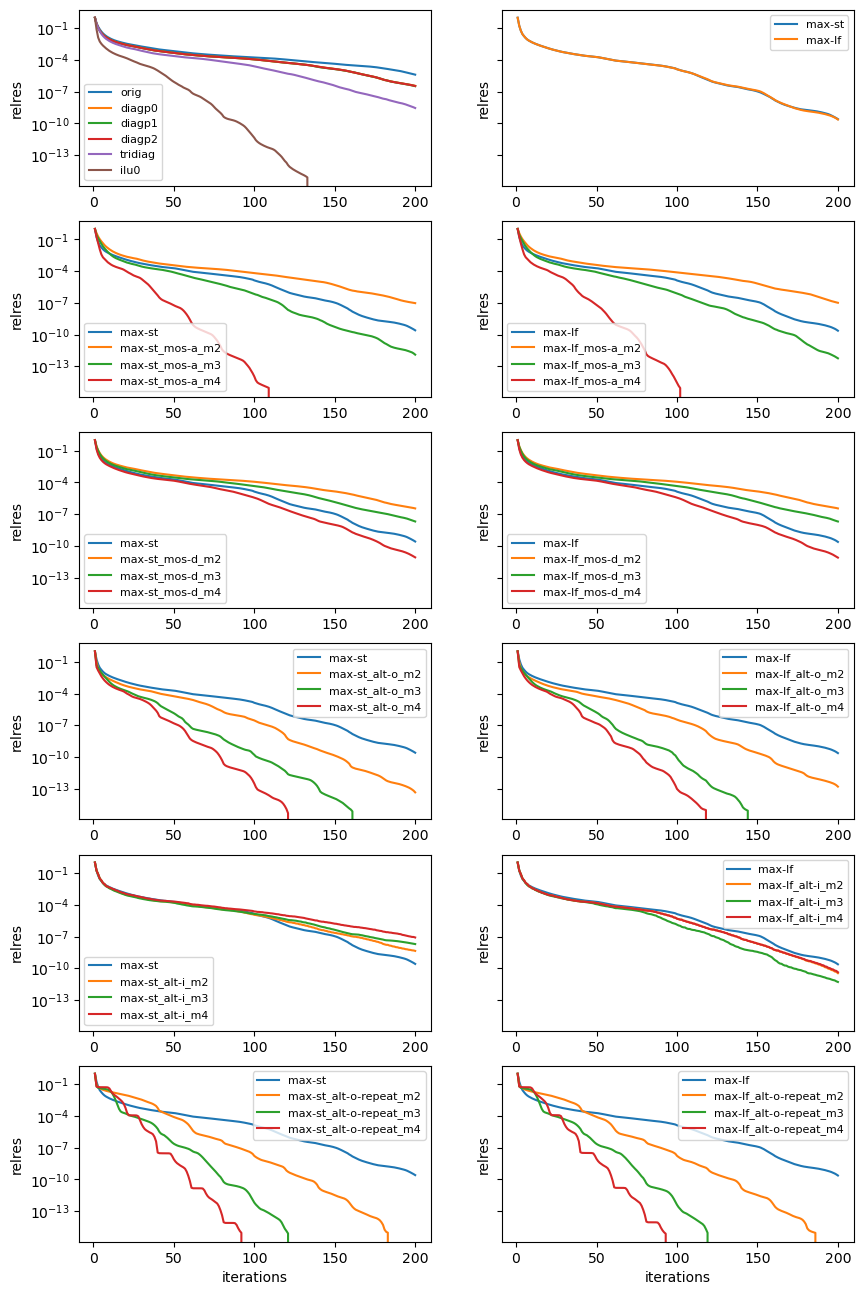
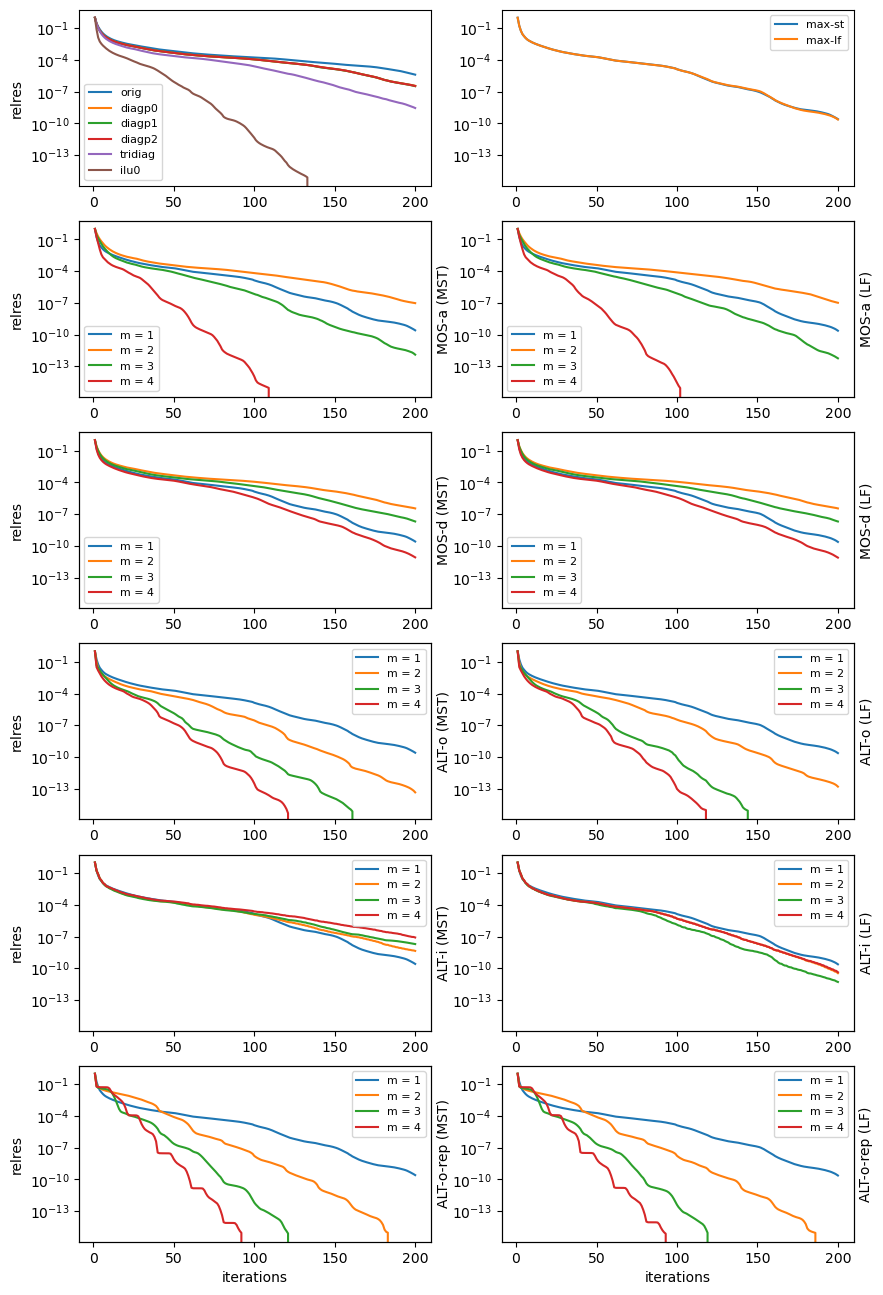
improve labeling

diff --git a/python/plot.py b/python/plot.py
@@ -15,6 +15,7 @@ import re
 
 from pathlib import Path
 
+
 # %%
 def load_trials(json_f):
     trials = {}
@@ -38,6 +39,27 @@ def load_trials(json_f):
     return trials
 
 
+def plot_trial(labels, trials, matrix, x_id, x_lim, ax, y_title=None, alt_legend=False):
+    for m, label in enumerate(labels, start=1):
+        relres  = trials[matrix][x_id][label]['relres']
+        relres += [0] * (x_lim - len(relres))
+        
+        fre  = trials[matrix][x_id][label]['fre']
+        fre += [0] * (x_lim - len(relres))
+
+        # XXX: trick to display method name in legend, when comparing different preconditioner types
+        label_m = label if alt_legend else f'm = {m}'
+        ax.plot(range(1, x_lim+1), relres[:x_lim], label=label_m)
+    
+    ax.legend(fontsize='8')
+
+    if y_title is not None:
+        ax2 = ax.twinx()
+        ax2.set_ylabel(y_title)
+        ax2.set_yticks([])
+    
+     
+# %%
 def main(json_f):
     trials = load_trials(json_f)
     x_lim = 200
@@ -50,263 +72,135 @@ def main(json_f):
 
             for i in range(NROWS):
                 ax1[i, 0].set_yscale('log')
-                #ax1[i, 0].set_xlabel('iterations')
-                ax1[i, 0].set_ylabel('relres')
-            
                 ax1[i, 1].set_yscale('log')
-                #ax1[i, 1].set_xlabel('iterations')
-                ax1[i, 1].set_ylabel('relres')
+                ax1[i, 1].yaxis.set_tick_params(labelleft=True)
+                ax1[i, 0].set_ylabel('relres')
 
             ax1[-1, 0].set_xlabel('iterations')
             ax1[-1, 1].set_xlabel('iterations')
-            
-            # R1) Reference results
-            # XXX: replace jacobi with diagp0, diagp1, diagp2
-            ref_trials = ['orig', 'diagp0', 'diagp1', 'diagp2', 'tridiag', 'ilu0']
-            
-            for m, label in enumerate(ref_trials, start=1):
-                relres = trials[matrix][x_id][label]['relres']
-                relres += [0] * (x_lim - len(relres))
-                fre = trials[matrix][x_id][label]['fre']
-                fre += [0] * (x_lim - len(relres))
-                
-                # TODO: ensure same number of iterations (xscale) for every subplot
-                ax1[0, 0].plot(range(1, x_lim+1), relres[:x_lim], label=label)
-            
-            ax1[0, 0].legend(fontsize='8')
-            # ax1[0, 0].set_xlim(100)
 
+
+            # R1, C1) Reference results
+            labels11 = ['orig', 'diagp0', 'diagp1', 'diagp2', 'tridiag', 'ilu0']
+            
+            plot_trial(labels11, trials, matrix, x_id, x_lim, ax1[0, 0], y_title=None, alt_legend=True)
+
+
+            # TODO: use plot_trial()
             # R1, C2) MST + LF
-            trials12 = ['max-st', 'max-lf']
-
-            for m, label in enumerate(trials12, start=1):
-                relres = trials[matrix][x_id][label]['relres']
-                relres += [0] * (x_lim - len(relres))
-                fre = trials[matrix][x_id][label]['fre']
-                fre += [0] * (x_lim - len(relres))
-                
-                # TODO: ensure same number of iterations (xscale) for every subplot
-                ax1[0, 1].plot(range(1, x_lim+1), relres[:x_lim], label=label)
+            labels12 = ['max-st', 'max-lf']
             
-            ax1[0, 1].legend(fontsize='8')
-            # ax1[0, 1].set_xlim(100)
+            plot_trial(labels12, trials, matrix, x_id, x_lim, ax1[0, 1], y_title=None, alt_legend=True)
+
 
             # R2, C1) MST + MOS-a
-            trials21 = ['max-st',
+            labels21 = ['max-st',
                         'max-st_mos-a_m2',
                         'max-st_mos-a_m3',
                         'max-st_mos-a_m4'
             ]
-            
-            for m, label in enumerate(trials21, start=1):
-                relres = trials[matrix][x_id][label]['relres']
-                relres += [0] * (x_lim - len(relres))
-                fre = trials[matrix][x_id][label]['fre']
-                fre += [0] * (x_lim - len(relres))
-                
-                ax1[1, 0].plot(range(1, x_lim+1), relres[:x_lim], label=label)
-            
-            ax1[1, 0].legend(fontsize='8')
-            # ax1[1, 0].set_xlim(100)
-                
+            plot_trial(labels21, trials, matrix, x_id, x_lim, ax1[1, 0], 'MOS-a (MST)')
+
+
             # R3, C1) MST + MOS-d
-            trials31 = ['max-st',
+            labels31 = ['max-st',
                         'max-st_mos-d_m2',
                         'max-st_mos-d_m3',
                         'max-st_mos-d_m4'
             ]
+            plot_trial(labels31, trials, matrix, x_id, x_lim, ax1[2, 0], 'MOS-d (MST)')
 
-            for m, label in enumerate(trials31, start=1):
-                relres = trials[matrix][x_id][label]['relres']
-                relres += [0] * (x_lim - len(relres))
-                fre = trials[matrix][x_id][label]['fre']
-                fre += [0] * (x_lim - len(relres))
-                
-                ax1[2, 0].plot(range(1, x_lim+1), relres[:x_lim], label=label)
             
-            ax1[2, 0].legend(fontsize='8')
-            # ax1[2, 0].set_xlim(100)
-                
             # R4, C1) MST + ALT-o
-            trials41 = ['max-st',
+            labels41 = ['max-st',
                         'max-st_alt-o_m2',
                         'max-st_alt-o_m3',
                         'max-st_alt-o_m4'
             ]
-            
-            for m, label in enumerate(trials41, start=1):
-                relres = trials[matrix][x_id][label]['relres']
-                relres += [0] * (x_lim - len(relres))
-                fre = trials[matrix][x_id][label]['fre']
-                fre += [0] * (x_lim - len(relres))
-                
-                ax1[3, 0].plot(range(1, x_lim+1), relres[:x_lim], label=label)
-            
-            ax1[3, 0].legend(fontsize='8')
-            # ax1[3, 0].set_xlim(100)
-                
+            plot_trial(labels41, trials, matrix, x_id, x_lim, ax1[3, 0], 'ALT-o (MST)')
+
+
             # R5, C1) MST + ALT-i
-            trials51 = ['max-st',
+            labels51 = ['max-st',
                         'max-st_alt-i_m2',
                         'max-st_alt-i_m3',
                         'max-st_alt-i_m4'
             ]
-            
-            for m, label in enumerate(trials51, start=1):
-                relres = trials[matrix][x_id][label]['relres']
-                relres += [0] * (x_lim - len(relres))
-                fre = trials[matrix][x_id][label]['fre']
-                fre += [0] * (x_lim - len(relres))
-                
-                ax1[4, 0].plot(range(1, x_lim+1), relres[:x_lim], label=label)
-            
-            ax1[4, 0].legend(fontsize='8')
-            # ax1[4, 0].set_xlim(100)
-                
+            plot_trial(labels51, trials, matrix, x_id, x_lim, ax1[4, 0], 'ALT-i (MST)')
+
+
             # R6, C1) MST + ALT-o-repeat
-            trials61 = ['max-st',
+            labels61 = ['max-st',
                         'max-st_alt-o-repeat_m2',
                         'max-st_alt-o-repeat_m3',
                         'max-st_alt-o-repeat_m4'
             ]
+            plot_trial(labels61, trials, matrix, x_id, x_lim, ax1[5, 0], 'ALT-o-rep (MST)')
             
-            for m, label in enumerate(trials61, start=1):
-                relres = trials[matrix][x_id][label]['relres']
-                relres += [0] * (x_lim - len(relres))
-                fre = trials[matrix][x_id][label]['fre']
-                fre += [0] * (x_lim - len(relres))
-                
-                ax1[5, 0].plot(range(1, x_lim+1), relres[:x_lim], label=label)
             
-            ax1[5, 0].legend(fontsize='8')
-            # ax1[5, 0].set_xlim(100)
-                
             # # R7, C1) MST + addition
-            # trials71 = ['max-st',
+            # labels71 = ['max-st',
             #             'max-st_add_m2',
             #             'max-st_add_m3',
             #             'max-st_add_m4'
             # ]
-
-            # for m, label in enumerate(trials71, start=1):
-            #     relres = trials[matrix][x_id][label]['relres']
-            #     relres += [0] * (x_lim - len(relres))
-            #     fre = trials[matrix][x_id][label]['fre']
-            #     fre += [0] * (x_lim - len(relres))
-                
-            #     ax1[6, 0].plot(range(1, x_lim+1), relres[:x_lim], label=label)
-            
-            # ax1[6, 0].legend(fontsize='8')
-            # # ax1[6, 0].set_xlim(100)
-                
+            # plot_trial(labels71, trials, matrix, x_id, x_lim, ax1[6, 0], 'add (MST)')
+ 
+    
             # R2, C2) LF + MOS-a
-            trials22 = ['max-lf',
+            labels22 = ['max-lf',
                         'max-lf_mos-a_m2',
                         'max-lf_mos-a_m3',
                         'max-lf_mos-a_m4'
             ]
-            
-            for m, label in enumerate(trials22, start=1):
-                relres = trials[matrix][x_id][label]['relres']
-                relres += [0] * (x_lim - len(relres))
-                fre = trials[matrix][x_id][label]['fre']
-                fre += [0] * (x_lim - len(relres))
-                
-                ax1[1, 1].plot(range(1, x_lim+1), relres[:x_lim], label=label)
-            
-            ax1[1, 1].legend(fontsize='8')
-            # ax1[1, 1].set_xlim(100)
+            plot_trial(labels22, trials, matrix, x_id, x_lim, ax1[1, 1], 'MOS-a (LF)')
 
+            
             # R3, C2) LF + MOS-d
-            trials32 = ['max-lf',
+            labels32 = ['max-lf',
                         'max-lf_mos-d_m2',
                         'max-lf_mos-d_m3',
                         'max-lf_mos-d_m4'
             ]
+            plot_trial(labels32, trials, matrix, x_id, x_lim, ax1[2, 1], 'MOS-d (LF)')
 
-            for m, label in enumerate(trials32, start=1):
-                relres = trials[matrix][x_id][label]['relres']
-                relres += [0] * (x_lim - len(relres))
-                fre = trials[matrix][x_id][label]['fre']
-                fre += [0] * (x_lim - len(relres))
-                
-                ax1[2, 1].plot(range(1, x_lim+1), relres[:x_lim], label=label)
             
-            ax1[2, 1].legend(fontsize='8')
-            # ax1[2, 1].set_xlim(100)
-                
             # R4, C2) LF + ALT-o
-            trials42 = ['max-lf',
+            labels42 = ['max-lf',
                         'max-lf_alt-o_m2',
                         'max-lf_alt-o_m3',
                         'max-lf_alt-o_m4'
             ]
+            plot_trial(labels42, trials, matrix, x_id, x_lim, ax1[3, 1], 'ALT-o (LF)')
+
             
-            for m, label in enumerate(trials42, start=1):
-                relres = trials[matrix][x_id][label]['relres']
-                relres += [0] * (x_lim - len(relres))
-                fre = trials[matrix][x_id][label]['fre']
-                fre += [0] * (x_lim - len(relres))
-                
-                ax1[3, 1].plot(range(1, x_lim+1), relres[:x_lim], label=label)
-            
-            ax1[3, 1].legend(fontsize='8')
-            # ax1[3, 1].set_xlim(100)
-                
             # R5, C2) LF + ALT-i
-            trials52 = ['max-lf',
+            labels52 = ['max-lf',
                         'max-lf_alt-i_m2',
                         'max-lf_alt-i_m3',
                         'max-lf_alt-i_m4'
             ]
+            plot_trial(labels52, trials, matrix, x_id, x_lim, ax1[4, 1], 'ALT-i (LF)')
 
-            for m, label in enumerate(trials52, start=1):
-                relres = trials[matrix][x_id][label]['relres']
-                relres += [0] * (x_lim - len(relres))
-                fre = trials[matrix][x_id][label]['fre']
-                fre += [0] * (x_lim - len(relres))
-                
-                ax1[4, 1].plot(range(1, x_lim+1), relres[:x_lim], label=label)
-            
-            ax1[4, 1].legend(fontsize='8')
-            # ax1[4, 1].set_xlim(100)
                 
             # R6, C2) LF + ALT-o-repeat
-            trials62 = ['max-lf',
+            labels62 = ['max-lf',
                         'max-lf_alt-o-repeat_m2',
                         'max-lf_alt-o-repeat_m3',
                         'max-lf_alt-o-repeat_m4'
             ]
+            plot_trial(labels62, trials, matrix, x_id, x_lim, ax1[5, 1], 'ALT-o-rep (LF)')
 
-            for m, label in enumerate(trials62, start=1):
-                relres = trials[matrix][x_id][label]['relres']
-                relres += [0] * (x_lim - len(relres))
-                fre = trials[matrix][x_id][label]['fre']
-                fre += [0] * (x_lim - len(relres))
-                
-                ax1[5, 1].plot(range(1, x_lim+1), relres[:x_lim], label=label)
-            
-            ax1[5, 1].legend(fontsize='8')
-            # ax1[5, 1].set_xlim(100)
-                
+
             # # R7, C2) LF + addition
-            # trials72 = ['max-lf',
+            # labels72 = ['max-lf',
             #             'max-lf_add_m2',
             #             'max-lf_add_m3',
             #             'max-lf_add_m4'
             # ]
-             
-            # for m, label in enumerate(trials72, start=1):
-            #     relres = trials[matrix][x_id][label]['relres']
-            #     relres += [0] * (x_lim - len(relres))
-            #     fre = trials[matrix][x_id][label]['fre']
-            #     fre += [0] * (x_lim - len(relres))
-                
-            #     ax1[6, 1].plot(range(1, x_lim+1), relres[:x_lim], label=label)
+            # plot_trial(labels72, trials, matrix, x_id, x_lim, ax1[6, 1], 'add(LF)')
             
-            # ax1[6, 1].legend(fontsize='8')
-            # # ax1[6, 1].set_xlim(100)
-                
+
             fig1.savefig(f'{matrix}_x{x_id}.png', bbox_inches='tight')
             plt.close()
 
